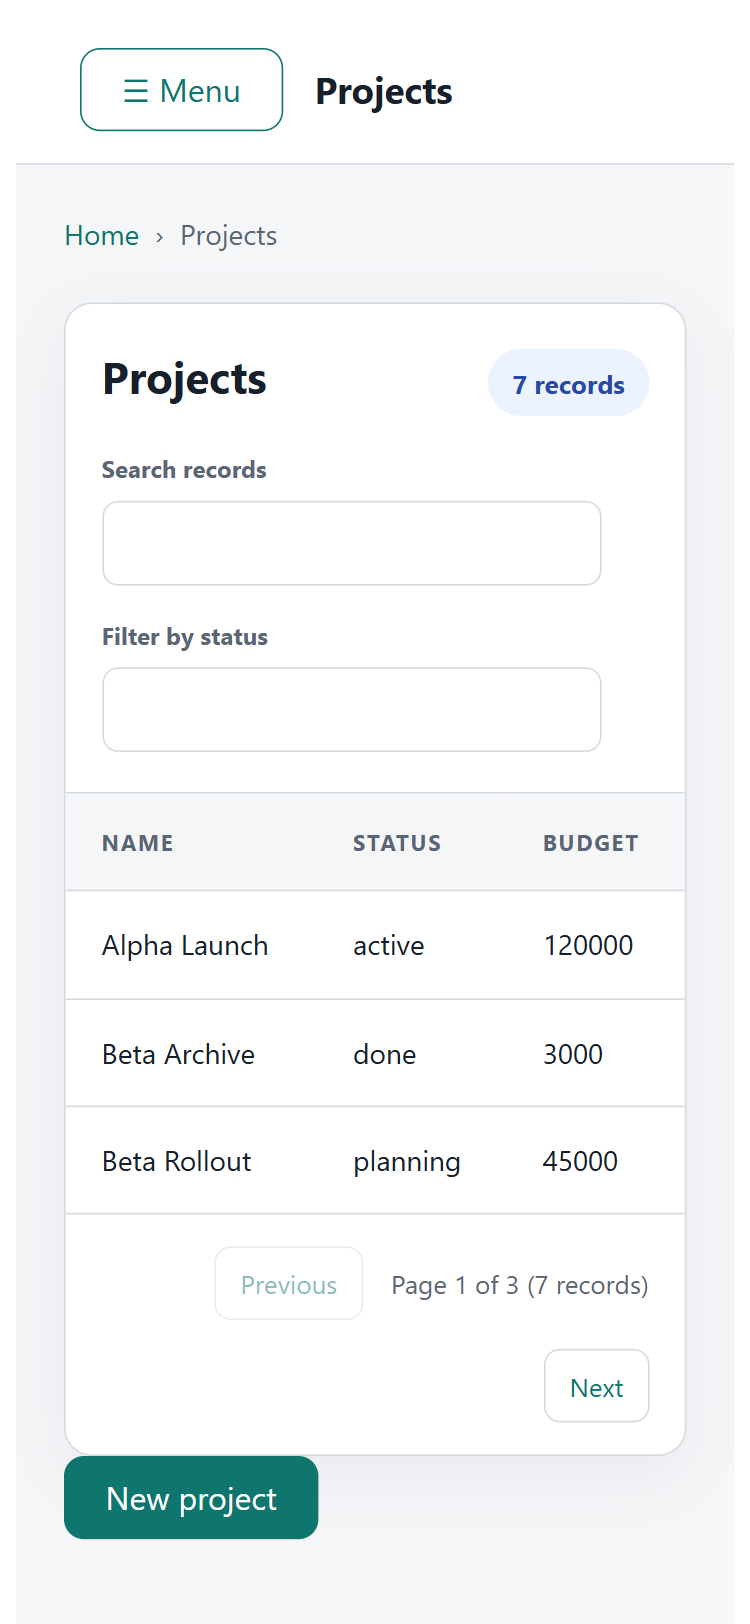
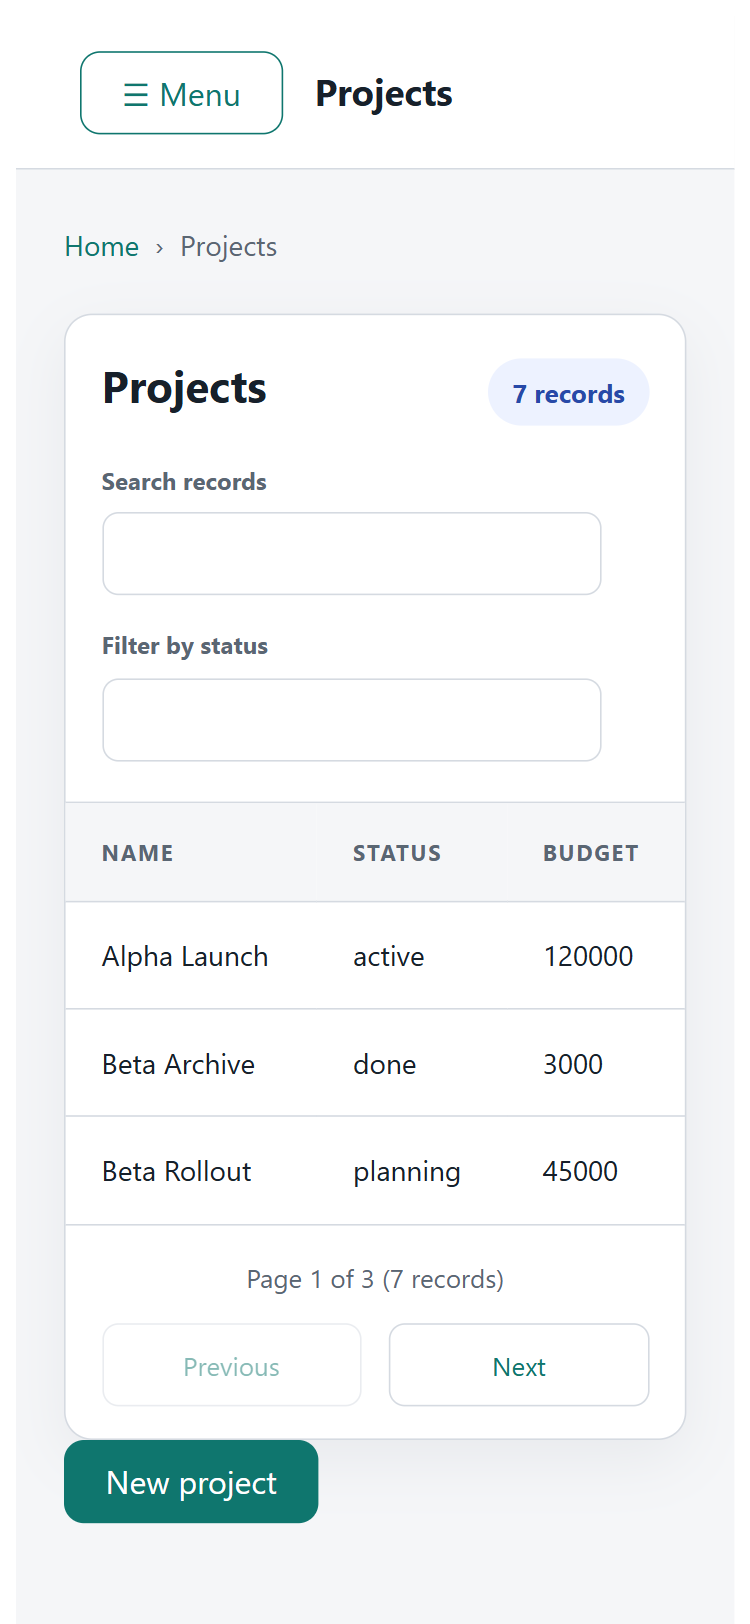
qa(ui): deliberate narrow-screen pagination layout + release impact inventory (read-only)
Pagination refinement (packages/ui-svelte, presentation only):
- .vict-ui-table__page-status class on the aria-live page indicator;
- at <=719px the pagination becomes a deliberate two-row layout: the
  page status centered on its own full-width row, Previous and Next
  stretching edge-to-edge below as equal touch targets (padding-block
  10px). Desktop (>719px) layout unchanged (right-aligned single row).
- DOM and keyboard order unchanged (Previous -> status -> Next in the
  accessibility tree; the status is visually reordered only and is not
  focusable).

Verified in a real browser at 320px, 380px, and 430px (and desktop):
- no horizontal overflow at any width (documentElement.scrollWidth <
  innerWidth at all three);
- status centered above, buttons equal-width edge-to-edge below;
- real Tab-key walk: search -> filter -> sort buttons -> Next (disabled
  Previous correctly skipped) -> New project, visible focus outline
  throughout;
- table spacing reviewed after the change (heading/toolbar/table/
  pagination rhythm unchanged on desktop; phone paddings consistent).

Affected checks rerun: vitest renderer project 56/56; reference app
61/61 (dom + real-browser); typecheck exit 0; prettier clean; packed
consumer rebuilt against the repacked ui-svelte tarball and re-verified
(same geometry, emitted CSS carries the new class).

Updated screenshots: qa-artifacts/refapp-projects-{desktop,mobile,320}.png
(consumer refresh: vict-qa-consumer/screenshots/).
[…]

diff --git a/packages/ui-svelte/src/RecordsTable.svelte b/packages/ui-svelte/src/RecordsTable.svelte
@@ -80,7 +80,7 @@
     </div>
     <nav class="vict-ui-table__pagination" aria-label="Table pagination">
       <button type="button" data-testid="table-prev" disabled={state.page === 0} onclick={() => void onPage(state.page - 1)}>Previous</button>
-      <span aria-live="polite" data-testid="table-page-indicator">Page {state.page + 1} of {state.pageCount} ({state.total} {state.total === 1 ? 'record' : 'records'})</span>
+      <span class="vict-ui-table__page-status" aria-live="polite" data-testid="table-page-indicator">Page {state.page + 1} of {state.pageCount} ({state.total} {state.total === 1 ? 'record' : 'records'})</span>
       <button type="button" data-testid="table-next" disabled={state.page >= state.pageCount - 1} onclick={() => void onPage(state.page + 1)}>Next</button>
     </nav>
   {/if}

diff --git a/packages/ui-svelte/src/styles.css b/packages/ui-svelte/src/styles.css
@@ -166,6 +166,19 @@
   .vict-ui-table__pagination {
     padding: 16px 18px;
   }
+  /* Deliberate phone layout: page status gets its own centered row above
+     the buttons; Previous and Next stretch edge-to-edge below as equal
+     touch targets. DOM (and keyboard) order is unchanged — the status is
+     visually reordered only. */
+  .vict-ui-table__page-status {
+    order: -1;
+    flex: 1 1 100%;
+    text-align: center;
+  }
+  .vict-ui-table__pagination button {
+    flex: 1;
+    padding-block: 10px;
+  }
 }
 @media (prefers-reduced-motion: reduce) {
   .vict-ui-table *,

diff --git a/qa-artifacts/RELEASE-IMPACT-UI-PACKAGES.md b/qa-artifacts/RELEASE-IMPACT-UI-PACKAGES.md
@@ -1,0 +1,181 @@
+# Release impact inventory — adding `@victframework/ui` and `@victframework/ui-svelte`
+
+**READ-ONLY analysis.** No contract amendment, no manifest change, no
+publish, no trust mutation was performed. Recorded 2026-09-25 from
+branch `qa/ui-foundation-p1` @ `0de2c625d9c6920dd8feefc445719ad1a752486b`.
+
+## Current failing state (reproduced)
+
+On the branch, the two new packages make the release gates fail closed:
+
+- `npm run verify:release-set` (scripts/check-release-set.mjs) — FAILS:
+  `@victframework/ui` / `@victframework/ui-svelte` are not members of the
+  recorded release set; internal-pin check fails for
+  `renderer-svelte → ui`, `renderer-svelte → ui-svelte`,
+  `ui-svelte → ui`.
+- `vitest run --project unit scripts/test/trusted-publishing.test.mjs`
+  — 2 of 55 tests FAIL ("not in the frozen 13-package inventory",
+  "inventory is 15 packages, expected exactly 13", order not a
+  linearization of the frozen list).
+
+Everything else about the new packages already complies with the
+release-set rules (verified via the same gate's per-manifest checks once
+membership is amended): `publishConfig.access = "public"`, Apache-2.0,
+`engines.node`, `repository.url` with `directory`, declared `files`,
+exact internal pins at the coherent version `0.3.1`.
+
+## Every frozen-contract touchpoint that a proper amendment must touch
+
+### A. The frozen contract itself — `docs/RELEASE-TRUSTED-PUBLISHING-CONTRACT.md`
+
+- §1: "All 13 published manifests…" — becomes 15 (metadata-truthfulness
+  statement; the new manifests already carry the correct
+  repository/directory fields).
+- §5 Release-set inventory (frozen): "MUST remain exactly the recorded
+  13-package set" + the frozen 13-line publication order — must be
+  restated as 15 with `ui` and `ui-svelte` inserted.
+- §8 step 4/6 ("all 13 packages") — text updates ("all 15").
+- §11 One-time trust bootstrap — the exact-13 allowlist description and
+  the bootstrap's "ALL 13 TRUST RELATIONSHIPS VERIFIED" guarantee —
+  becomes 15 (see also D below: the two NEW packages need trust
+  configured for the FIRST time).
+- §13 Phase-0 baseline — historical; unchanged.
+- **Amendment rule (header of the contract):** the amendment must be a
+  SEPARATE commit documenting the change BEFORE any implementation
+  consumes it. It must not be bundled with the consuming implementation
+  commit. The 2026-09-21 §8.1 amendment is the precedent format.
+
+### B. The recorded identity — `docs/RELEASE-COMPATIBILITY.md`
+
+- §2 machine-readable `vict-release-set` JSON block records exactly the
+  13 members at the coherent version with `contentId`
+  `v1_1c695280d3afec5…`. Adding two members at `0.3.1` changes the
+  sorted `name@version` list → the contentId MUST be re-derived
+  (`deriveReleaseSetContentId` in `scripts/lib/release-set.mjs`:
+  sha256 over the sorted newline-joined `name@version` list, prefixed
+  `v1_`). The §2 JSON block and any §2.1 lineage prose must be updated
+  by the amendment implementation.
+- Note: `0.3.1` (stable) is NOT yet published (`latest` = `0.3.0`;
+  only `0.3.1-rc.1` exists under the candidate tag). A 15-package stable
+  `0.3.1` set is therefore still available as a first publication of the
+  two new packages — but the §2 record must be amended to the 15-member
+  identity BEFORE `verify:release-set` passes.
+- §2.1 lineage: prior sets are immutable; the already-published
+  0.3.1-rc.1 candidate (13 members) is never re-published or rewritten.
+
+### C. Scripts / tests that encode the frozen inventory
+
+- `scripts/lib/release-set.mjs` — `EXPECTED_RELEASE_PACKAGE_COUNT = 13`
+  → 15; `FROZEN_PUBLISH_ORDER` gains `@victframework/ui` and
+  `@victframework/ui-svelte` between `@victframework/application` (6)
+  and `@victframework/renderer-svelte` (now 9). Dependency-correct order:
+  `ui` depends on nothing internal; `ui-svelte` depends on `ui`;
+  `renderer-svelte` depends on `application`, `sdk`, `ui`, `ui-svelte`.
+- `scripts/test/trusted-publishing.test.mjs` — pinned expectations
+  (exact set + topological linearization) fail today; they read the
+  same lib constants, so the lib change + recorded-identity update fixes
+  the pins. The frozen-order test recomputes topological validity, so
+  the new positions are self-checking.
+- `scripts/check-release-set.mjs` (`npm run verify:release-set`) —
+  record-driven from RELEASE-COMPATIBILITY.md §2 JSON; no count constant
+  of its own. Passes once the record is amended.
+- `scripts/trust-bootstrap.mjs` — derives the inventory from the lib
+  constants; its `expected exactly 13` messages and the §5-order check
+  follow the lib. No independent list.
+- `scripts/oidc-release.mjs` — uses the lib constants throughout
+  (inventory coherence, pack count, publication order, resume proof,
+  registry verification); message text mentions 13 (cosmetic).
+- `scripts/verify-release-consumer.mjs` — installs the EXACT recorded
+  set parsed from RELEASE-COMPATIBILITY.md §2; becomes 15 automatically
+  after the record amendment. (Its consumer-proof scenario should gain
+  coverage of `VitApp` + `theme.css` + `ui-svelte/styles.css` from
+  tarballs — already proven ad hoc in QA; making it a permanent §8 step-7
+  scenario is an owner decision.)
+- `scripts/lib/tarball-set.mjs` — identity-matching only; inventory-
+  driven. No change.
+- `scripts/release-evidence.mjs` — reads `FROZEN_PUBLISH_ORDER` from the
+  lib; follows automatically.
+- `.github/workflows/release.yml` — comment/step text says "13
+  packages" (cosmetic); the version input description says "must equal
+  all 13 manifests" — text update; behavior is lib-driven.
+- Root `package.json` `build` chain — already includes
+  `ui → ui-svelte → renderer-svelte` in build order (publish order is
+  governed by the frozen list, not the build chain).
+
+### D. npm trust setup (one-time, for the TWO NEW packages only)
+
+- The 13 existing packages already have exact trust relationships
+  (GitHub provider, `radz2291/vict-02`, `release.yml`, allow-publish, no
+  environment) from the one-time bootstrap; they are unaffected.
+- `@victframework/ui` and `@victframework/ui-svelte` have NEVER been
+  published and have NO trust relationship. Required sequence:
+  1. Amendment commit (contract §5/§1 text + §2 record) — separate,
+     BEFORE implementation (contract amendment rule).
+  2. Implementation commit: lib constants + record + workflow text.
+  3. Trust bootstrap for the two new names via
+     `scripts/trust-bootstrap.mjs` (it derives the new inventory and
+     verifies every relationship). OPEN OPERATIONAL QUESTION to verify
+     during the amendment work: whether `npm trust github` accepts a
+     not-yet-published package name, or whether the first publish must
+     ride a variant flow (npm's trusted-publisher configuration for a
+     new package name). The bootstrap's fail-closed pre-checks will make
+     the answer explicit; do not guess in automation.
+  4. Then an ordinary `workflow_dispatch` release from a pushed
+     `origin/main`-lineage SHA; §6 requires the requested version to be
+     unpublished for ALL 15 members (true for stable `0.3.1`).
+- §11 ceremony constraints unchanged: one human-bounded 2FA window,
+  `npm >= 11.15.0` explicitly resolved, no tokens anywhere.
+
+### E. Publication order (amended, proposed — NOT applied)
+
+```text
+ 1. @victframework/contracts
+ 2. @victframework/sdk
+ 3. @victframework/kernel
+ 4. @victframework/runtime
+ 5. @victframework/store-sqlite
+ 6. @victframework/application
+ 7. @victframework/ui            (NEW — no internal deps)
+ 8. @victframework/ui-svelte     (NEW — depends on ui)
+ 9. @victframework/renderer-svelte
+10. @victframework/appdata-sqlite
+11. @victframework/scaffolder
+12. @victframework/control
+13. @victframework/mastra
+14. @victframework/server
+15. @victframework/cli
+```
+
+Any topologically valid position for `ui` before `ui-svelte` before
+`renderer-svelte` is acceptable; the above minimizes diff surface
+(appdata-sqlite etc. keep relative order after renderer-svelte).
+
+### F. Identity consequence
+
+- The member-set change makes the content-derived identity change by
+  construction (`v1_` sha256 over the sorted `name@version` list). The
+  15-member `0.3.1` identity is a NEW immutable identity; the published
+  13-member history (0.1.0 … 0.3.1-rc.1) is never mutated.
+- `npm run verify:release-consumer` will then install and typecheck the
+  15-member set, including `ui` (dist JS/d.ts) and `ui-svelte` (Svelte
+  sources + styles.css through the renderer's `theme.css` @import).
+
+## What was NOT done (per instruction)
+
+- No edit to `docs/RELEASE-TRUSTED-PUBLISHING-CONTRACT.md`,
+  `docs/RELEASE-COMPATIBILITY.md`, `scripts/lib/release-set.mjs`, the
+  pinned tests, the workflow, or any npm trust state.
+- No publish, no dist-tag, no registry call.
+
+## Smallest properly ordered path (proposal for Codex)
+
+1. Amendment commit: contract §1/§5/§8/§11 text 13→15 with the insertion
+   order above (separate commit, per amendment rule).
+2. Implementation commit: `release-set.mjs` constants, §2 record JSON
+   (re-derived contentId), workflow/message text, any pinned-test
+   expectation text.
+3. Verification: `npm run verify:release-set` green;
+   `trusted-publishing.test.mjs` 55/55; full unit suite green.
+4. Trust bootstrap execution for the two new packages (owner ceremony),
+   then an ordinary candidate release (`X.Y.Z-rc.N`) to prove the first
+   OIDC publication of `ui`/`ui-svelte` before any stable release.

diff --git a/qa-artifacts/SHELL-MIGRATION-NOTES.md b/qa-artifacts/SHELL-MIGRATION-NOTES.md
@@ -1,0 +1,50 @@
+# Legacy shell migration — input notes (QA observations, no restyle performed)
+
+Recorded from the `/projects` vertical QA passes (branches
+`qa/ui-foundation-p1`, 2026-09-25). These are **renderer-shell (legacy
+`VitApp` chrome) concerns**, deliberately NOT restyled in the UI
+foundation QA scope. They belong to the later shell migration.
+
+## 1. Oversized legacy mobile header
+
+Observed (380px and 320px viewports, `refapp-projects-mobile.png`,
+`refapp-projects-320.png`):
+
+- The `vict-header` band renders the `☰ Menu` toggle and the screen `h1`
+  in a tall band (~150–160px before the breadcrumb/content area starts),
+  consuming roughly the first 20% of a phone viewport before any
+  application content.
+- The header persists as a separate block from the nav; on phones the
+  nav collapses behind the menu button but the header band itself keeps
+  desktop-scale paddings/type.
+
+Input for the shell migration: compress the mobile header band (smaller
+toggle + tighter vertical rhythm) and consider merging the breadcrumb row
+into the header on phones.
+
+## 2. Repeated "Projects" heading
+
+Observed on `/projects` at every width (desktop and phone):
+
+1. Header `h1` — "Projects" (screen title, rendered by the shell).
+2. Breadcrumb trail — "Home › Projects".
+3. Table card `h2` — "Projects" (the table's `intent.title`, currently
+   derived in `@victframework/ui` `deriveUiPlan` from the SCREEN title,
+   not the surface).
+
+Three stacked repetitions of the same word at consecutive levels.
+Input for the shell migration:
+
+- Either the table intent's `title` should default to something other
+  than the screen title (surface-level label, or no heading when the
+  screen title already names it) — this is a `@victframework/ui` contract
+  question to settle BEFORE the shell migration, since `UiTableIntent.title`
+  is derived presentation intent;
+- or the shell should omit the screen `h1` when the first surface already
+  carries the same title.
+
+## Boundary
+
+These are observations only. The legacy shell (`VitApp.svelte`,
+`vict-header`, breadcrumb, nav) was NOT modified in this QA pass, and no
+Application Definition field was added or changed.
